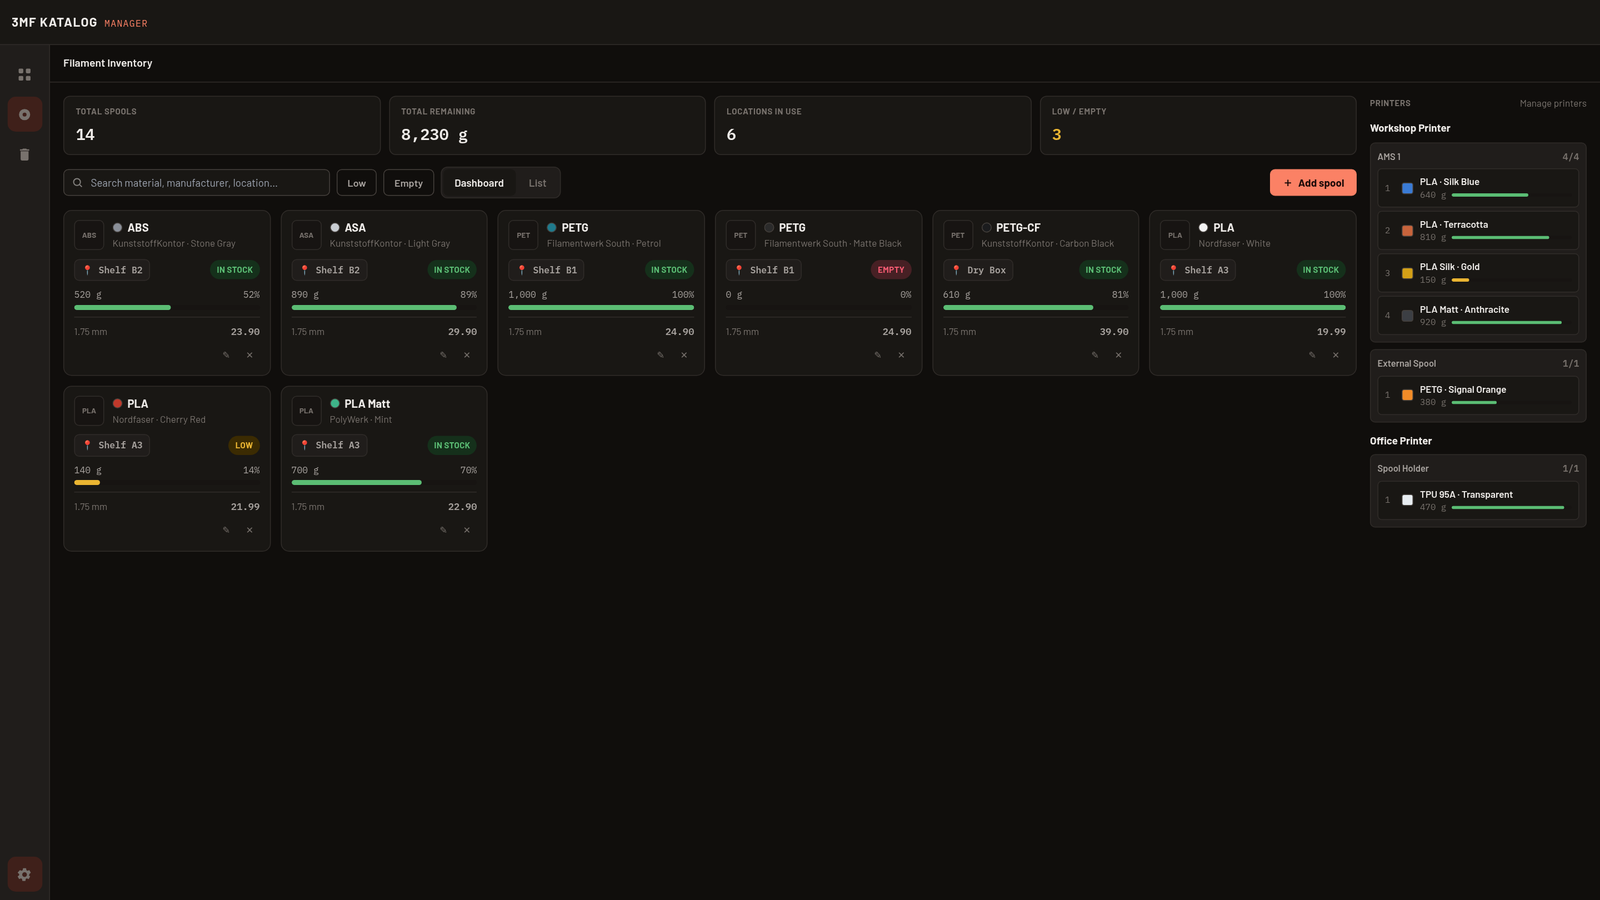
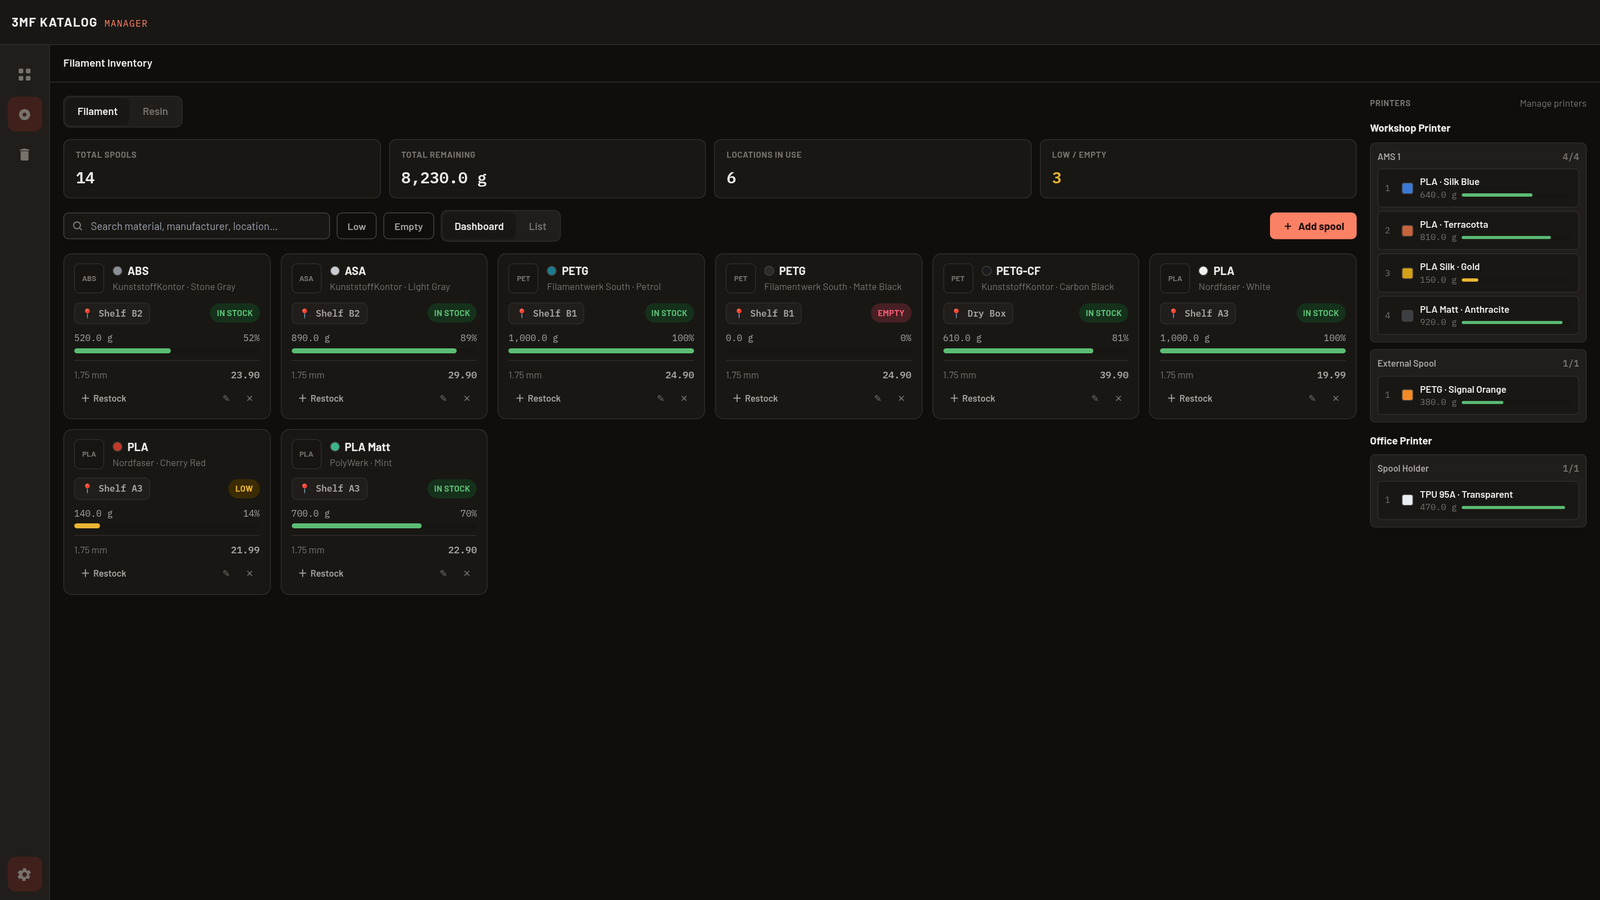
Handbuch: Filament-Lager-Bilder für v0.13.1 neu aufgenommen, Resin-Bild ergänzt
Bilder 08–10 (DE+EN) zeigen jetzt den Umschalter Filament | Resin,
Nachkaufen und das Spulen-Symbol in der Liste. Neues Bild 12 zeigt
den Resin-Bereich mit drei Flaschen. Bildhinweis nennt die Version.

diff --git a/docs/benutzerhandbuch/BENUTZERHANDBUCH.md b/docs/benutzerhandbuch/BENUTZERHANDBUCH.md
@@ -4,10 +4,11 @@ Dieses Handbuch richtet sich an alle, die den 3MF Katalog Manager zum ersten Mal
 sich mit der App noch nicht auskennen. Es erklärt Schritt für Schritt, wie du Modelle
 importierst, organisierst, druckfertig machst und dein Filament-Lager verwaltest.
 
-> **Hinweis zu den Bildern in diesem Handbuch:** Alle Screenshots zeigen die App (Version 0.13.0)
-> mit einem erfundenen Demo-Katalog (Modelle wie "Rakete" oder "Spiralvase", erfundene
-> Filamentspulen und Hersteller) — keine echten Nutzerdaten. Die Optik entspricht exakt dem, was
-> du in der App siehst; nur der Inhalt ist zu Demonstrationszwecken erfunden.
+> **Hinweis zu den Bildern in diesem Handbuch:** Alle Screenshots zeigen die App (Version 0.13.0;
+> die ersten drei Bilder zum Filament-Lager und das Resin-Bild Version 0.13.1) mit einem erfundenen
+> Demo-Katalog (Modelle wie "Rakete" oder "Spiralvase", erfundene Filamentspulen, Resin-Flaschen
+> und Hersteller) — keine echten Nutzerdaten. Die Optik entspricht exakt dem, was du in der App
+> siehst; nur der Inhalt ist zu Demonstrationszwecken erfunden.
 
 ## Inhalt
 
@@ -340,6 +341,8 @@ klick auf der Flasche auf „− Verbrauch" und trag die Milliliter ein (auf 0,1
 sinkt nie unter 0. Resin-Flaschen kommen nie in ein Druckerfach und zählen nicht bei „Reicht das
 Filament?" und den Materialkosten.
 
+![Resin-Flaschen im Filament-Lager](bilder/12-resin-flaschen.png)
+
 ### Reicht das Filament?
 
 Für 3MF-Dateien, die in Bambu Studio oder OrcaSlicer gesliced wurden, vergleicht die Detailseite
@@ -508,10 +511,11 @@ This guide is for anyone using the 3MF Katalog Manager for the first time and no
 with the app. It walks you step by step through importing, organizing, and preparing your models
 for printing, and managing your filament stock.
 
-> **About the screenshots in this guide:** all screenshots show the app (version 0.13.0) with its
-> interface set to English and a made-up demo catalog (models like "Rocket" or "Spiral Vase",
-> made-up filament spools and brands) — no real user data. The layout is exactly what you'll see
-> in the app; only the content is for demonstration purposes.
+> **About the screenshots in this guide:** all screenshots show the app (version 0.13.0; the first
+> three filament stock images and the resin image version 0.13.1) with its interface set to English
+> and a made-up demo catalog (models like "Rocket" or "Spiral Vase", made-up filament spools, resin
+> bottles and brands) — no real user data. The layout is exactly what you'll see in the app; only
+> the content is for demonstration purposes.
 
 ## Contents
 
@@ -827,6 +831,8 @@ no diameter, and material and manufacturer suggest resin values. When you've use
 "− Use" on the bottle and enter the milliliters (to 0.1 ml); the remaining amount never drops
 below 0. Resin bottles never go into a printer slot and are left out of "Is there enough
 filament?" and the material cost.
+
+![Resin bottles in the filament stock](bilder/en/12-resin-bottles.png)
 
 ### Is there enough filament?
 
